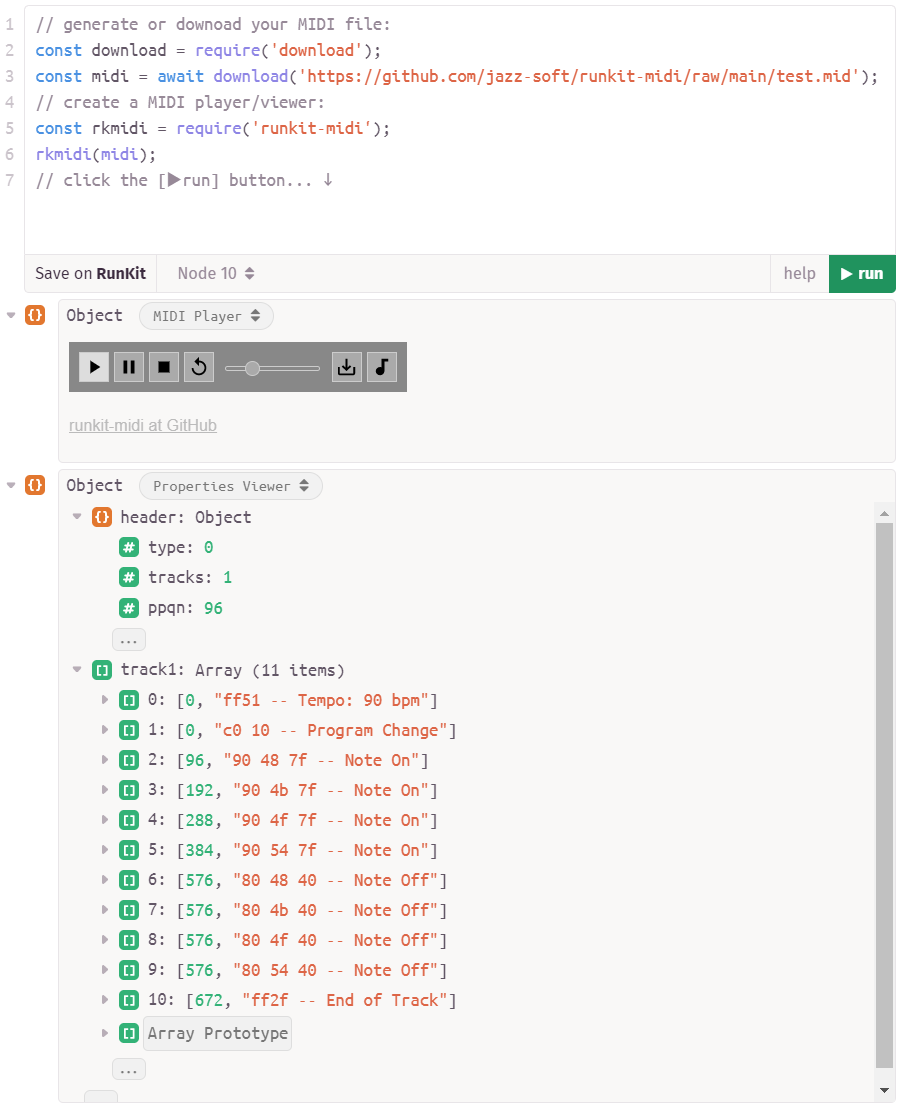
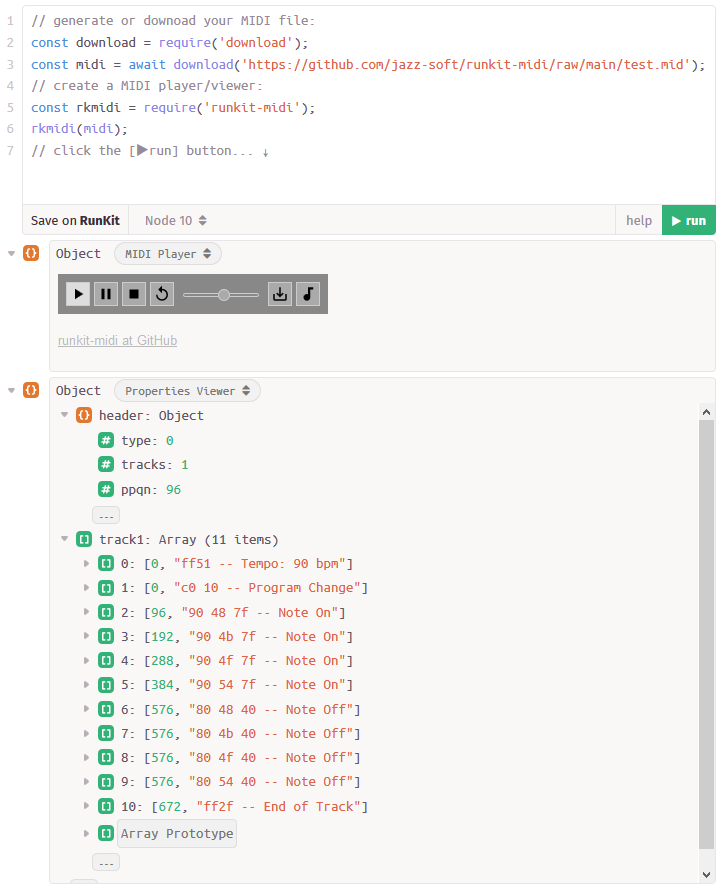
Updated README.md

diff --git a/README.md b/README.md
@@ -4,4 +4,4 @@ MIDI player/viewer for RunKit
 [![npm](https://img.shields.io/npm/v/runkit-midi.svg)](https://www.npmjs.com/package/runkit-midi)
 [![Try runkit-midi on RunKit](https://badge.runkitcdn.com/runkit-midi.svg)](https://npm.runkit.com/runkit-midi)
 
-## Work in progress... Please come again later!
+[![screenshot](https://github.com/jazz-soft/runkit-midi/raw/main/media/rkmidi.png)](https://npm.runkit.com/runkit-midi)
